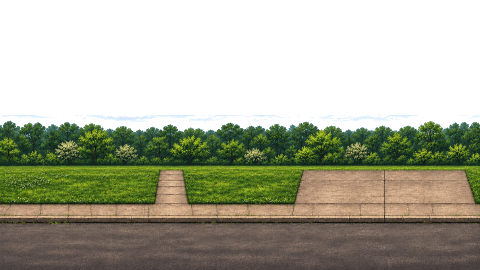
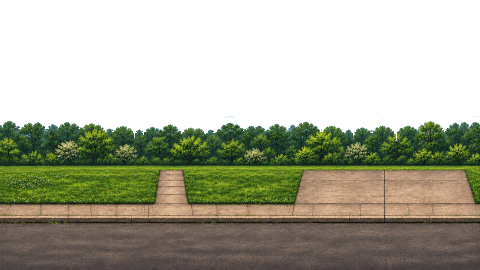
Snow that settles: dusting, then drifts, lawn before paths and the road last with its wheel tracks clear, roofs in drifts, snow along the branches, glints in the sun, gusts; the woods solid as painted with only their crowns soft against the sky
Claude-Session: https://claude.ai/code/session_01BMyqTudGWpuTphuwn8oTvi

diff --git a/gearhouse/render/place/front2.ts b/gearhouse/render/place/front2.ts
@@ -29,12 +29,17 @@ function treeOf(doy: number): [string, string, number] {
   const T: [number, string][] = [[0, 'tree_bare'], [84, 'tree_bare'], [100, 'tree_bud'], [110, 'tree_bud'], [118, 'tree_blossom'], [136, 'tree_blossom'], [148, 'tree_summer'], [258, 'tree_summer'], [270, 'tree_yellow'], [282, 'tree_yellow'], [290, 'tree_red'], [298, 'tree_red'], [306, 'tree_late'], [316, 'tree_late'], [326, 'tree_bare'], [366, 'tree_bare']];
   for (let i = 0; i < T.length - 1; i++) { const [d0, a] = T[i]!, [d1, b] = T[i + 1]!; if (doy >= d0 && doy < d1) return [a, b, a === b ? 0 : (doy - d0) / (d1 - d0)]; } return ['tree_bare', 'tree_bare', 0]; }
 const cell = (x: number, y: number, s = 3) => hash2(Math.floor(x / s) + 911, Math.floor(y / s) + 37);   // a patch's own threshold, for changing a patch at a time
+/** where snow lies first (low) and last (high): the lawn before the paths, the pavement after, the road last and its
+ *  wheel tracks never; drifts along the foot of the house; in clumps of all sizes */
+function snowField(x: number, y: number): number { let bias = 0;
+  if (y >= 222) bias = 0.3 + (Math.abs(y - 241) < 3 || Math.abs(y - 254) < 3 ? 0.6 : 0); else if (y >= 203) bias = 0.15; else if (y >= 166 && ((x >= 296 && x < 470) || (x >= 152 && x < 188))) bias = 0.08; else if (y >= 166) bias = -0.1 - (y < 172 ? 0.08 : 0);
+  return clump(x * 1.3, y * 2) * 0.55 + 0.1 + bias; }
 /** the same for leaves: round clumps of all sizes, not squares */
 const clump = (x: number, y: number) => Math.min(1, Math.max(0, (noise(x / 9 + 3.1, y / 9 + 7.7) * 0.65 + noise(x / 3.5 + 11, y / 3.5) * 0.35 - 0.2) / 0.6));
 
 export class Front2 {
   private alb = new Float32Array(N * 3); private lit = new Float32Array(N * 3); private kind = new Uint8Array(N); private sky = new Float32Array(W * 180 * 3);
-  private glass = new Int8Array(N).fill(-1); private cover = new Float32Array(N);
+  private glass = new Int8Array(N).fill(-1); private cover = new Float32Array(N); private snowy = new Uint8Array(N); private treeM = new Uint8Array(N); private marking = 0;
   private smoke: { x: number; y: number; age: number; life: number }[] = []; private fall: { x: number; y: number; v: number; snow: number }[] = []; private bird = { x: -1, y: 0, wait: 6, dir: 1 };
   constructor(private C: Cut, private P: Record<string, Pic>) {
     // the panes of the house's windows: the dark glass inside each window box (not the shutters, not the bars)
@@ -49,7 +54,7 @@ export class Front2 {
       for (let sx = -1; sx < p.w; sx++) { const x = ix + sx + 1; if (x < 0 || x >= W) continue; if (keep && !keep(x, y)) continue;
         const a0 = sx >= 0 ? p.px[(sy * p.w + sx) * 4 + 3]! : 0, a1 = sx + 1 < p.w ? p.px[(sy * p.w + sx + 1) * 4 + 3]! : 0, a = (a1 * (1 - f) + a0 * f) / 255; if (a < 0.5) continue;
         const j0 = (sy * p.w + Math.max(0, sx)) * 4, j1 = (sy * p.w + Math.min(p.w - 1, sx + 1)) * 4, i = y * W + x, w1 = a1 > 0 ? (a0 > 0 ? 1 - f : 1) : 0;
-        this.alb[i * 3] = p.px[j1]! * w1 + p.px[j0]! * (1 - w1); this.alb[i * 3 + 1] = p.px[j1 + 1]! * w1 + p.px[j0 + 1]! * (1 - w1); this.alb[i * 3 + 2] = p.px[j1 + 2]! * w1 + p.px[j0 + 2]! * (1 - w1); this.kind[i] = k; } } }
+        this.alb[i * 3] = p.px[j1]! * w1 + p.px[j0]! * (1 - w1); this.alb[i * 3 + 1] = p.px[j1 + 1]! * w1 + p.px[j0 + 1]! * (1 - w1); this.alb[i * 3 + 2] = p.px[j1 + 2]! * w1 + p.px[j0 + 2]! * (1 - w1); this.kind[i] = k; this.treeM[i] = this.marking; } } }
 
   draw(out: Uint8ClampedArray, e: Front2Env): void { const a = e.air, t = e.t, C = this.C, P = this.P;
     const day = a.daylight, dusk = clamp(1 - Math.abs(a.sunAlt - 2) / 10) * (1 - a.cloud * 0.5), night = 1 - day;
@@ -75,20 +80,31 @@ export class Front2 {
     // ---- the ground of the season, changing a patch at a time; snow laid in patches
     const [ga, gb, gf] = seasonOf(e.doy), A = P['ground_' + ga]!, B = P['ground_' + gb]!, SN = P.ground_winter_snow!;
     this.kind.fill(K.Sky); this.cover.fill(1);
-    for (let i = 0; i < N; i++) { const x = i % W, y = (i / W) | 0, c = cell(x, y, 4), src = e.snow > 0 && cell(x + 3, y, 3) < e.snow ? SN : c < gf ? B : A, j = i * 4;
-      const cv = src.px[j + 3]! / 255; this.cover[i] = cv; if (cv < 0.04) continue; /* the woods' crowns are soft against the sky */ this.alb[i * 3] = src.px[j]!; this.alb[i * 3 + 1] = src.px[j + 1]!; this.alb[i * 3 + 2] = src.px[j + 2]!; this.kind[i] = y >= 168 && (y >= 203 || (x >= 296 && x < 470) || (x >= 152 && x < 188)) ? K.Wet : K.Ground; }
+    this.snowy.fill(0); this.treeM.fill(0);
+    for (let i = 0; i < N; i++) { const x = i % W, y = (i / W) | 0, c = cell(x, y, 4), sf = e.snow > 0 ? snowField(x, y) : 9, base = c < gf ? B : A, edge = Math.abs(sf - e.snow) < 0.035, dust = sf >= e.snow && sf - e.snow < 0.2 && hash2(x * 3 + 1, y * 5) < (1 - (sf - e.snow) / 0.2) * 0.55, src = sf < e.snow || dust ? SN : base, j = i * 4;   /* thin snow first dusts the ground in flakes */
+      if (sf < e.snow && y >= 100) this.snowy[i] = 1;
+      const cv = src.px[j + 3]! / 255; this.cover[i] = cv; if (cv < 0.04) continue; /* the woods' crowns are soft against the sky */ this.alb[i * 3] = src.px[j]!; this.alb[i * 3 + 1] = src.px[j + 1]!; this.alb[i * 3 + 2] = src.px[j + 2]!;
+      if (edge && base.px[j + 3]! > 100) { this.alb[i * 3] = (this.alb[i * 3]! + base.px[j]!) / 2; this.alb[i * 3 + 1] = (this.alb[i * 3 + 1]! + base.px[j + 1]!) / 2; this.alb[i * 3 + 2] = (this.alb[i * 3 + 2]! + base.px[j + 2]!) / 2; }   /* slush at the edge of the snow */ this.kind[i] = y >= 168 && (y >= 203 || (x >= 296 && x < 470) || (x >= 152 && x < 188)) ? K.Wet : K.Ground; }
     // ---- the buildings and things
     this.lay(P.garage!, C.garage!.at, K.Wall); this.lay(P.house!, C.house!.at, K.Wall); this.lay(P.mailbox!, C.mailbox!.at, K.Wall); this.lay(P.lamp!, C.lamp!.at, K.Wall);
     const [ta, tb, tf] = treeOf(e.doy), amp = 0.35 + 1.4 * a.wind, sway = (p: Pic) => (sy: number) => { const up = clamp(1 - sy / (p.h * 0.62)); return amp * up * up * (Math.sin(t * 0.9 + sy * 0.015) * 0.75 + Math.sin(t * 2.1 + sy * 0.04) * 0.25); };
+    this.marking = 1;
     if (tf > 0) { const pa = P[ta]!, pb = P[tb]!; this.lay(pa, C[ta]!.at, K.Wall, (x, y) => clump(x, y) >= tf, sway(pa)); this.lay(pb, C[tb]!.at, K.Wall, (x, y) => clump(x, y) < tf, sway(pb)); }
     else this.lay(P[ta]!, C[ta]!.at, K.Wall, undefined, sway(P[ta]!));
-    if (e.snow > 0.05) this.lay(P.snowcaps!, [0, 0], K.Wall, (x, y) => cell(x, y, 2) < e.snow * 1.3);
+    this.marking = 0;
+    // snow lying on the roofs, the chimney, the sills, the mailbox and the lamp: it gathers in drifts, thin first
+    if (e.snow > 0.05) { const before = this.kind.slice(); this.lay(P.snowcaps!, [0, 0], K.Wall, (x, y) => { const f = clump(x * 1.6, y * 2.2) - (e.snow * 1.5 - 0.15); return f < 0 || (f < 0.25 && hash2(x * 5, y * 3 + 7) < (1 - f / 0.25) * 0.5); }); for (let i = 0; i < N; i++) if (this.kind[i] !== before[i] || (this.kind[i] === K.Wall && P.snowcaps!.px[i * 4 + 3]! > 128 && clump((i % W) * 1.6, ((i / W) | 0) * 2.2) < e.snow * 1.5 - 0.15)) this.snowy[i] = 1; }
+    // and on the branches: along their upper edges, a pixel thick, two when it is deep
+    if (e.snow > 0.12) for (let i = W * 2; i < N; i++) { if (!this.treeM[i] || this.treeM[i - W]) continue; const x = i % W, y = (i / W) | 0; if (clump(x * 3, y * 3) > e.snow * 1.4) continue;
+      const put = (k: number, a: number) => { this.alb[k * 3] = lerp(this.alb[k * 3]!, 234, a); this.alb[k * 3 + 1] = lerp(this.alb[k * 3 + 1]!, 238, a); this.alb[k * 3 + 2] = lerp(this.alb[k * 3 + 2]!, 248, a); this.snowy[k] = 1; };
+      put(i, 0.9); if (e.snow > 0.55 && this.treeM[i + W]) put(i + W, 0.55); if (e.snow > 0.8 && !this.treeM[i - W] && y > 2) { put(i - W, 0.8); this.kind[i - W] = K.Wall; } }
     if (ga === 'autumn' || (gb === 'autumn' && gf > 0.5) || ga === 'winter_bare' && e.doy > 300 && e.doy < 335) { const heaps: [string, number, number][] = [['leaves_1', 4, 166], ['leaves_0', 192, 190], ['leaves_2', 262, 196]]; for (const [n, x, y] of heaps) if (P[n]) this.lay(P[n]!, [x, y], K.Ground); }
     if (e.snow > 0.6) { const heaps: [string, number, number][] = [['snowpile_1', 268, 178], ['snowpile_0', 452, 180], ['snowpile_2', 0, 206]]; for (const [n, x, y] of heaps) if (P[n]) this.lay(P[n]!, [x, y], K.Ground); }
     // ---- the light
     const level = 0.1 + 0.95 * day * (0.92 + 0.1 * (1 - a.cloud)), ambC = mix3(mix3([1, 1, 1], [0.95, 0.97, 1.02], a.cloud), [1.06, 0.82, 0.68], dusk * 0.6), nb: V3 = [0.05, 0.06, 0.11];
     const lampOn = day < 0.32 || (a.rain > 0 && day < 0.55), lampP = C.lamp!.at as [number, number], lx = lampP[0] + 10.5, ly = lampP[1] + 8, pool: [number, number] = [453, 214];
     const winLit = e.houseLit && day < 0.5, wl = (1 - day * 2) * 0.95;
+    const sparkle = clamp(a.sunAlt / 8) * (1 - a.cloud) + (lampOn ? 0.3 : 0);
     for (let i = 0; i < N; i++) { const kd = this.kind[i]!, x = i % W, y = (i / W) | 0;
       if (kd === K.Sky) { const k = y < 180 ? (y * W + x) * 3 : ((179) * W + x) * 3; this.lit[i * 3] = this.sky[k]!; this.lit[i * 3 + 1] = this.sky[k + 1]!; this.lit[i * 3 + 2] = this.sky[k + 2]!; continue; }
       let r = nb[0] + level * ambC[0], g = nb[1] + level * ambC[1], b = nb[2] + level * ambC[2];
@@ -96,6 +112,7 @@ export class Front2 {
       if (winLit && (kd === K.Ground || kd === K.Wet)) for (const wb of C.windows) { const cx = (wb[0]! + wb[2]!) / 2, d = (x - cx) / 22, dy = (y - (wb[3]! + 26)) / 12; const kk = 0.22 * wl * Math.exp(-(d * d + dy * dy)); r += kk; g += kk * 0.72; b += kk * 0.42; }
       let ar = this.alb[i * 3]!, ag = this.alb[i * 3 + 1]!, ab = this.alb[i * 3 + 2]!; if (kd === K.Wet && e.wet > 0) { const w = 1 - 0.32 * e.wet; ar *= w; ag *= w; ab *= w; }
       this.lit[i * 3] = ar * r; this.lit[i * 3 + 1] = ag * g; this.lit[i * 3 + 2] = ab * b;
+      if (this.snowy[i] && sparkle > 0 && hash2(x * 7 + Math.floor(t * 1.7 + hash2(x, y) * 9), y * 13) > 0.9975) { this.lit[i * 3] = 255; this.lit[i * 3 + 1] = 254; this.lit[i * 3 + 2] = 248; }   // the sun glinting on snow crystals
       if (kd === K.Ground && this.cover[i]! < 1) { const cv = this.cover[i]!, k = (Math.min(179, y) * W + x) * 3; this.lit[i * 3] = lerp(this.sky[k]!, this.lit[i * 3]!, cv); this.lit[i * 3 + 1] = lerp(this.sky[k + 1]!, this.lit[i * 3 + 1]!, cv); this.lit[i * 3 + 2] = lerp(this.sky[k + 2]!, this.lit[i * 3 + 2]!, cv); }
       // the windows at night: what is behind the glass, lamplit
       const gw = this.glass[i]!; if (gw >= 0 && winLit) { if (gw === 9) { this.lit[i * 3] = lerp(this.lit[i * 3]!, 236, wl * 0.8); this.lit[i * 3 + 1] = lerp(this.lit[i * 3 + 1]!, 170, wl * 0.8); this.lit[i * 3 + 2] = lerp(this.lit[i * 3 + 2]!, 96, wl * 0.8); }
@@ -139,7 +156,8 @@ export class Front2 {
   private weather(e: Front2Env) { const a = e.air, lv = 0.3 + 0.7 * a.daylight;
     if (a.rain > 0) for (let k = 0; k < 4; k++) if (Math.random() < e.dt * 70 * a.rain) this.fall.push({ x: Math.random() * (W + 60), y: -6, v: 260 + Math.random() * 90, snow: 0 });
     if (a.snow > 0) for (const [depth, rate, v] of [[1, 34, 9], [2, 16, 16], [3, 4, 30]] as const) if (Math.random() < e.dt * rate * a.snow * 2) this.fall.push({ x: Math.random() * (W + 40), y: -3, v: v + Math.random() * v * 0.5, snow: depth });
-    for (const q of this.fall) { q.y += q.v * e.dt; q.x += q.snow ? Math.sin(e.t * (0.8 + q.snow * 0.3) + q.v) * e.dt * (3 + q.snow * 2) - a.wind * e.dt * (6 + q.snow * 4) : -q.v * e.dt * (0.12 + a.wind * 0.3); }
+    const gust = 0.5 + 0.9 * Math.max(0, Math.sin(e.t * 0.31) * Math.sin(e.t * 0.17 + 1));   // the wind comes in gusts
+    for (const q of this.fall) { q.y += q.v * e.dt; q.x += q.snow ? Math.sin(e.t * (0.8 + q.snow * 0.3) + q.v) * e.dt * (3 + q.snow * 2) - a.wind * gust * e.dt * (8 + q.snow * 6) : -q.v * e.dt * (0.12 + a.wind * 0.3); }
     this.fall = this.fall.filter(q => q.y < H && q.x > -40);
     for (const q of this.fall) { if (q.snow) this.dab(q.x, q.y, [0, 0.35, 0.8, 1.3][q.snow]!, [236 * lv + 10, 238 * lv + 10, 246 * lv + 8], [0, 0.45, 0.75, 0.85][q.snow]!);
       else for (let j = 0; j < 6; j++) { const x = Math.round(q.x + j * (0.12 + a.wind * 0.3)), y = Math.round(q.y - j); if (x < 0 || y < 0 || x >= W || y >= H) continue; const i = y * W + x, w = 0.2 - j * 0.025; this.lit[i * 3] = lerp(this.lit[i * 3]!, 200 * lv, w); this.lit[i * 3 + 1] = lerp(this.lit[i * 3 + 1]!, 210 * lv, w); this.lit[i * 3 + 2] = lerp(this.lit[i * 3 + 2]!, 226 * lv, w); } } }

diff --git a/gearhouse/tools/places/front_v2.py b/gearhouse/tools/places/front_v2.py
@@ -116,21 +116,31 @@ def sky_mask(a):
     line = np.array([int(np.median(line[max(0, x - 3):x + 4])) for x in range(len(line))])
     for x in range(a.shape[1]): m[line[x]:, x] = False
     return m
-def matte(a, m, lo=16, span=46):
-    """soft coverage for the woods against the painted sky (review 50): the sky's colour just above the woods, column by
-    column, is the background; how far a pixel is from it is how much of it is tree. Its colour is freed of the sky in it,
-    so the game's own sky shows through the gaps between the branches, softly, with no hard steps"""
-    Hh, Ww = m.shape; first = np.array([np.argmax(~m[:, x]) if (~m[:, x]).any() else Hh for x in range(Ww)])
-    B = np.zeros((Ww, 3), np.float32)
-    for x in range(Ww): y = max(4, int(first[x])); B[x] = a[y - 4:y, x].mean(0)
-    B = np.stack([np.convolve(np.pad(B[:, c], 12, mode='edge'), np.ones(25) / 25, 'valid') for c in range(3)], 1)
-    top = int(np.percentile(first, 2)) - 6; bottom = int(np.percentile(first, 90)) + 14
-    alpha = np.where(m, 0.0, 1.0).astype(np.float32); rgb = a.copy()
-    for y in range(max(0, top), min(Hh, bottom)):
-        d = np.abs(a[y] - B).sum(1); al = np.clip((d - lo) / span, 0, 1)
-        if y > bottom - 8: al = np.maximum(al, (y - (bottom - 8)) / 8)
-        alpha[y] = al; ok = al > 0.04; rgb[y, ok] = np.clip(B[ok] + (a[y, ok] - B[ok]) / al[ok, None], 0, 255)
-    alpha[:max(0, top)] = 0
+def matte(a, m, lo=6, span=40, band=(84, 172)):
+    """soft coverage for the woods against the painted sky (reviews 50, 51). Near the horizon the painted sky is a bright
+    haze, brighter than higher up, so each row is judged against its own sky: the brightest pixels near each column in
+    that row are the sky there (its colour, its brightness); a pixel darker than that is that much tree. The sky in it
+    is taken out of its colour, so the game's own sky shows through between the crowns and the branches, with no line"""
+    Hh, Ww = m.shape; L = a.mean(2); alpha = np.ones((Hh, Ww), np.float32); rgb = a.copy(); y0, y1 = band
+    alpha[:y0] = 0; win = 61; skyL = np.zeros((Hh, Ww), np.float32); skyC = np.zeros((Hh, Ww, 3), np.float32)
+    for y in range(y0, y1):
+        row = L[y]
+        for x in range(Ww):
+            lo_, hi_ = max(0, x - win // 2), min(Ww, x + win // 2 + 1); seg = row[lo_:hi_]; t = np.percentile(seg, 88)
+            skyL[y, x] = t; skyC[y, x] = a[y, lo_:hi_][seg >= t - 6].mean(0)
+    # where the trees begin in each column: the first two rows running that are clearly darker than their sky (the
+    # clouds' shadows above are not: they are higher, and not that much darker); above it is sky
+    tops = np.full(Ww, y1, np.int32)
+    for x in range(Ww):
+        for y in range(116, y1 - 1):
+            if L[y, x] < skyL[y, x] - 22 and L[y + 1, x] < skyL[y + 1, x] - 22: tops[x] = y; break
+    tops = np.array([tops[max(0, x - 2):x + 3].min() for x in range(Ww)])
+    for y in range(y0, y1):
+        row = L[y]; sky = skyL[y]; col = skyC[y]
+        fade = min(1, (y1 - y) / 10)                       # the lowest rows of the woods: solid
+        al = np.clip((sky - row - lo) / span, 0, 1); al = al * fade + (1 - fade)
+        rel = y - tops; al = np.where(rel >= 3, 1, np.where(rel < -6, 0, al))   # solid inside the woods as painted; soft only at the crowns' outline (and the twigs just above it)
+        alpha[y] = al; ok = al > 0.04; rgb[y, ok] = np.clip(col[ok] + (a[y, ok] - col[ok]) / al[ok, None], 0, 255)
     return rgb, alpha
 
 skies = {}
@@ -166,14 +176,17 @@ for y, x in zip(*np.nonzero(white)):
 dk = snowy.mean(2) < 118; snowy[dk] = snowy[dk] * np.array([1.08, 0.97, 0.86])   # the branches warmer (brown, not the snow's blue); the sky between them as painted
 wb[woods] = snowy
 m = sky_mask(ws)
-rgb, al = matte(wb, m, 5, 22); save(np.concatenate([rgb, al[..., None] * 255], 2), 'ground_winter_bare.png')
+rgb, al = matte(wb, m, 4, 30); save(np.concatenate([rgb, al[..., None] * 255], 2), 'ground_winter_bare.png')
 
 # --- the winter example's snow on the roofs, chimney, mailbox and lamp ----------------------------------------------------
 we = np.asarray(Image.open(os.path.join(U, '7d8d0e8b-image.png')).convert('RGB')).astype(np.float32)
 L = we.mean(2); sat = we.max(2) - we.min(2); snow = (L > 188) & (sat < 46)
 zone = np.zeros(snow.shape, bool)
 for x0, y0, x1, y1 in [(150, 100, 1050, 330), (1000, 210, 1680, 340), (760, 125, 860, 175), (480, 600, 545, 650), (1540, 350, 1620, 400)]: zone[y0:y1, x0:x1] = True
-caps = np.concatenate([we, np.where(snow & zone, 255, 0)[..., None]], 2)
+cm = snow & zone
+for _ in range(2):   # close the gaps (the eaves came out dotted) and drop lone specks
+    n = np.zeros(cm.shape, np.int32); n[1:] += cm[:-1]; n[:-1] += cm[1:]; n[:, 1:] += cm[:, :-1]; n[:, :-1] += cm[:, 1:]; cm = (cm & (n >= 2)) | (~cm & (n >= 3) & zone)
+caps = np.concatenate([we, np.where(cm, 255, 0)[..., None]], 2)
 save(shrink(caps, k), 'snowcaps.png'); cut['snowcaps'] = {'at': [0, 0]}
 
 # --- the night example's lamplit windows -------------------------------------------------------------------------------------
